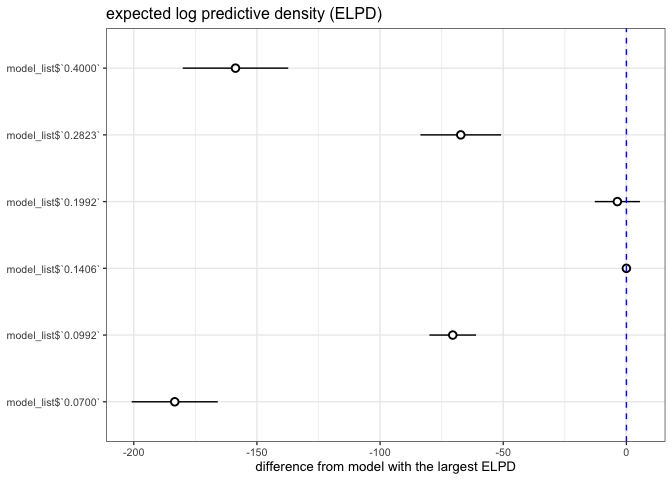
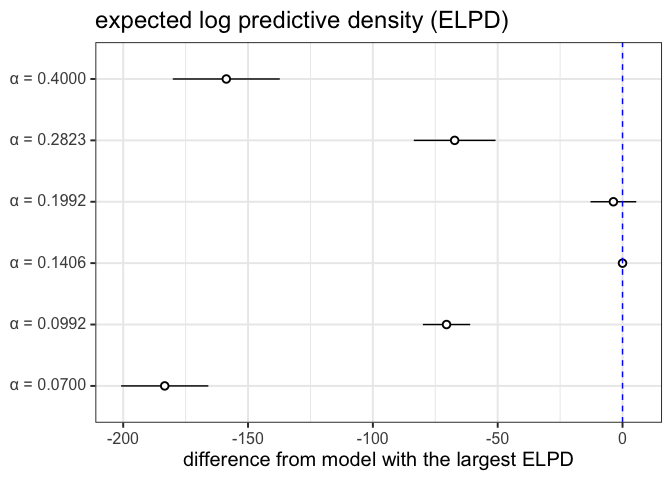
edit y labels

diff --git a/code/exploration/27_testing-alpha-values-bbinom.md b/code/exploration/27_testing-alpha-values-bbinom.md
@@ -1,15 +1,16 @@
 Testing different values of alpha for beta-binomial models
 ================
 Eleanor Jackson
-21 March, 2026
+27 April, 2026
 
 ``` r
-library("tidyverse"); theme_set(theme_bw(base_size = 10))
+library("tidyverse"); theme_set(theme_bw(base_size = 15))
 library("broom.mixed")
 library("brms")
 library("ggdist")
 library("loo") 
 library("patchwork")
+library("ggtext")
 ```
 
 ``` r
@@ -62,6 +63,12 @@ print(comp, digits = 3)
 comp %>% 
   data.frame() %>% 
   rownames_to_column(var = "model_name") %>% 
+  mutate(model_name = str_remove(model_name, "`")) %>% 
+  mutate(model_name = str_remove(model_name, "`")) %>% 
+  mutate(model_name = str_replace(string = model_name, 
+                                  pattern = fixed("model_list$") , 
+                                  replacement = "&alpha; = ")) %>% 
+  
   ggplot(aes(x    = model_name, elpd_diff, 
              y    = elpd_diff, 
              ymin = elpd_diff - se_diff, 
@@ -70,7 +77,8 @@ comp %>%
   coord_flip() +
   geom_hline(yintercept = 0, colour = "blue", linetype = 2) +
   labs(x = NULL, y = "difference from model with the largest ELPD", 
-       title = "expected log predictive density (ELPD)") 
+       title = "expected log predictive density (ELPD)") +
+  theme(axis.text = element_markdown())
 ```
 
 ![](figures/27_testing-alpha-values-bbinom/loo-compare-1.png)<!-- -->
